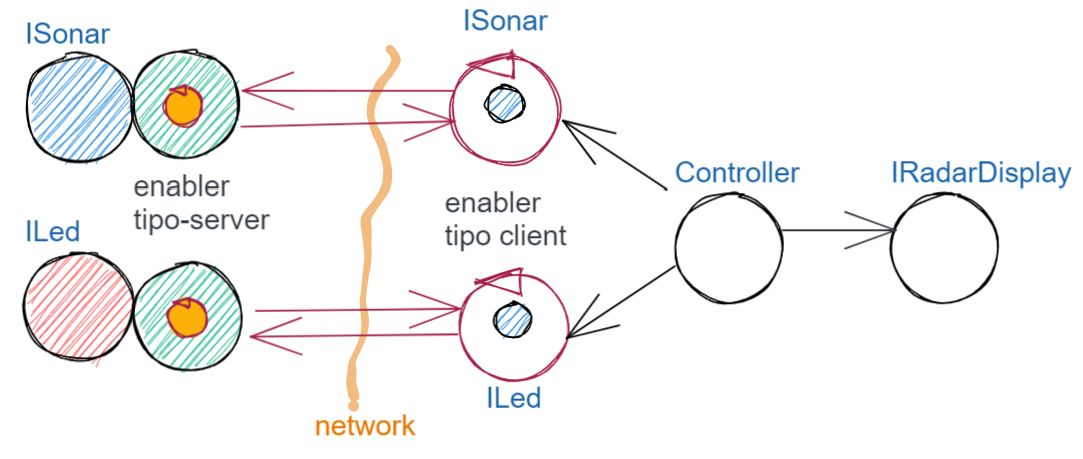
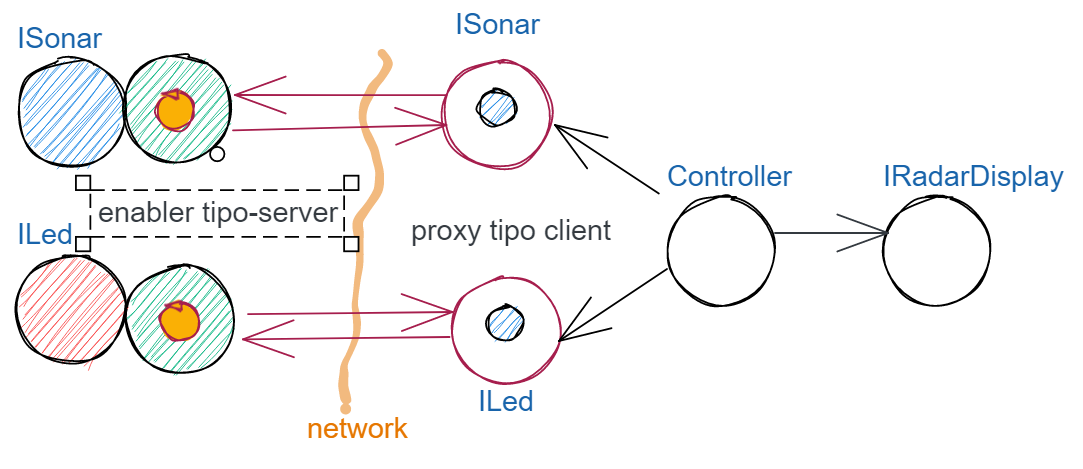
blocking queue

diff --git a/it.unibo.enablerCleanArch/src/it/unibo/enablerCleanArch/domain/SonarModel.java b/it.unibo.enablerCleanArch/src/it/unibo/enablerCleanArch/domain/SonarModel.java
@@ -1,14 +1,18 @@
 package it.unibo.enablerCleanArch.domain;
  
- 
+import java.util.concurrent.BlockingQueue;
+import java.util.concurrent.LinkedBlockingDeque;
 import it.unibo.enablerCleanArch.main.RadarSystemConfig;
 import it.unibo.enablerCleanArch.supports.Colors;
 
 public abstract class SonarModel  implements ISonar{ //extends Observable
-	protected  IDistance curVal ;
+public final static int queueSize = 10;
+//	protected  IDistance curVal ;
 	
 	protected boolean stopped  = false;
-	private boolean produced   = false;
+//	private boolean produced   = false;
+	
+	private BlockingQueue<IDistance> blockingQueue = new LinkedBlockingDeque<IDistance>(queueSize);
 	
 	public static ISonar create() {
 		if( RadarSystemConfig.simulation )  return createSonarMock();
@@ -28,7 +32,8 @@ public abstract class SonarModel  implements ISonar{ //extends Observable
 		sonarSetUp();
 	}
 	protected abstract void sonarSetUp() ;
-	protected abstract void sonarProduce() ;
+	//protected abstract void sonarProduce() ;
+	protected abstract void sonarProduce(BlockingQueue<IDistance> queue) ;
 
 	@Override
 	public boolean isActive() {
@@ -38,8 +43,15 @@ public abstract class SonarModel  implements ISonar{ //extends Observable
 	@Override
 	public IDistance getDistance() {
 		//Colors.out("SonarModel | getDistance curVal="+curVal, Colors.ANSI_PURPLE);
-		waitForUpdatedVal();
-		return curVal;
+		//waitForUpdatedVal();		
+		IDistance curVal;
+		try {
+			curVal = blockingQueue.take();
+			return curVal;
+		} catch (InterruptedException e) {
+			Colors.outerr("SonarMock | ERROR:"+e.getMessage());
+			return null;
+		}	
 	}
 	
 	@Override
@@ -49,7 +61,7 @@ public abstract class SonarModel  implements ISonar{ //extends Observable
 		new Thread() {
 			public void run() {
 				while( ! stopped  ) {
-					sonarProduce();
+					sonarProduce( blockingQueue );
 				}
 				Colors.out("SonarModel | ENDS", Colors.GREEN);
 		    }
@@ -62,6 +74,7 @@ public abstract class SonarModel  implements ISonar{ //extends Observable
 		stopped = true;
 	}
 
+	/*
 	protected synchronized void valueUpdated( ){
 		produced = true;
 		this.notify();
@@ -74,5 +87,5 @@ public abstract class SonarModel  implements ISonar{ //extends Observable
  		} catch (InterruptedException e) {
  			System.out.println("Sonar | waitForUpdatedVal ERROR " + e.getMessage() );
 		}		
-	}
+	}*/
 }

diff --git a/it.unibo.enablerCleanArch/src/it/unibo/enablerCleanArch/domain/SonarMock.java b/it.unibo.enablerCleanArch/src/it/unibo/enablerCleanArch/domain/SonarMock.java
@@ -1,18 +1,38 @@
 package it.unibo.enablerCleanArch.domain;
 
+import java.util.concurrent.BlockingQueue;
+
 import it.unibo.enablerCleanArch.main.RadarSystemConfig;
 import it.unibo.enablerCleanArch.supports.Colors;
 import it.unibo.enablerCleanArch.supports.Utils;
 
 public class SonarMock extends SonarModel implements ISonar{
-  
+protected  IDistance curVal ;  
 	@Override
 	protected void sonarSetUp() {
 		curVal = new Distance(90);		
 		Colors.out("SonarMock | sonarSetUp curVal="+curVal);
 	}
-	
+
 	@Override
+	protected void sonarProduce(BlockingQueue<IDistance> queue) {
+		try {
+		    if( RadarSystemConfig.testing ) {
+			      queue.put( new Distance( RadarSystemConfig.testingDistance ) );
+			      stopped = true;  //one shot
+			}else {
+				curVal = new Distance(  curVal.getVal() - 1 );
+			    queue.put( curVal );
+			    if( queue.size() > (SonarModel.queueSize * 8 / 10) ) Colors.out("SonarMock | queue size="+queue.size());
+	 		    stopped = ( curVal.getVal() == 0 );
+	 			Utils.delay(RadarSystemConfig.sonarDelay);  //avoid fast generation
+			}
+		}catch(Exception e) {
+			Colors.outerr("SonarMock | ERROR:"+e.getMessage());
+		}
+ 	}
+ 
+/*	@Override
 	  protected void sonarProduce() {
 	    if( RadarSystemConfig.testing ) {
 	      curVal.setVal( RadarSystemConfig.testingDistance );
@@ -24,5 +44,5 @@ public class SonarMock extends SonarModel implements ISonar{
 	  valueUpdated(   );
 	  Utils.delay(RadarSystemConfig.sonarDelay);  //avoid fast generation
 	}
- 
+ */
 }

diff --git a/it.unibo.enablerCleanArch/src/it/unibo/enablerCleanArch/domain/SonarConcrete.java b/it.unibo.enablerCleanArch/src/it/unibo/enablerCleanArch/domain/SonarConcrete.java
@@ -1,6 +1,7 @@
 package it.unibo.enablerCleanArch.domain;
 import java.io.BufferedReader;
 import java.io.InputStreamReader;
+import java.util.concurrent.BlockingQueue;
 
 import it.unibo.enablerCleanArch.supports.Colors;
 
@@ -25,6 +26,22 @@ public class SonarConcrete extends SonarModel implements ISonar{
  		return curVal ;
 	}
 	
+	@Override
+	protected void sonarProduce(BlockingQueue<IDistance> queue) {
+        try {
+			String data = reader.readLine();
+			dataCounter++;
+			if( dataCounter % numData == 0 ) { //every numData ...
+				//curVal.setVal( Integer.parseInt(data) );
+				Colors.out("SonarConcrete | data=" + data );
+				queue.add( new Distance(data) );
+			 }
+       }catch( Exception e) {
+       	Colors.outerr("SonarConcrete | ERROR " + e.getMessage() );
+       }
+		
+	}
+/*	
 	protected void sonarProduce() {
          try {
  			String data = reader.readLine();
@@ -37,6 +54,6 @@ public class SonarConcrete extends SonarModel implements ISonar{
         }catch( Exception e) {
         	Colors.outerr("SonarConcrete | ERROR " + e.getMessage() );
         }
- 	}
+ 	}*/
 
  }

diff --git a/it.unibo.enablerCleanArch/test/it/unibo/enablerCleanArch/TestSonarMock.java b/it.unibo.enablerCleanArch/test/it/unibo/enablerCleanArch/TestSonarMock.java
@@ -19,6 +19,7 @@ public class TestSonarMock {
 	@Test 
 	public void testSonarMock() {
 		RadarSystemConfig.simulation = true;
+		RadarSystemConfig.testing    = false;
 		RadarSystemConfig.sonarDelay = 10;		//quite fast generation ...
 		int delta = 1;
 				
@@ -27,9 +28,10 @@ public class TestSonarMock {
 		
 		int v0 = sonar.getDistance().getVal();
  		System.out.println("sonar initial value=" + v0);
+ 		
 		while( sonar.isActive() ) {
 			int d = sonar.getDistance().getVal();
-	 		//System.out.println("sonar getVal=" + d);
+	 		System.out.println("sonar getVal=" + d);
 			int vexpectedMin = v0-delta;
 			int vexpectedMax = v0+delta;
 			assertTrue(  d <= vexpectedMax && d >= vexpectedMin );

diff --git a/it.unibo.enablerCleanArch/src/it/unibo/enablerCleanArch/supports/Interaction2021.java b/it.unibo.enablerCleanArch/src/it/unibo/enablerCleanArch/supports/Interaction2021.java
@@ -3,6 +3,7 @@ package it.unibo.enablerCleanArch.supports;
 public interface Interaction2021  {	 
 	public void forward(  String msg ) throws Exception;
 	public String request(  String msg ) throws Exception;
+	public void reply(  String reqid ) throws Exception;
  	public String receiveMsg(  ) throws Exception ;
 	public void close( )  throws Exception;
 }

diff --git a/it.unibo.enablerCleanArch/src/it/unibo/enablerCleanArch/enablers/EnablerAsClient.java b/it.unibo.enablerCleanArch/src/it/unibo/enablerCleanArch/enablers/EnablerAsClient.java
@@ -2,7 +2,6 @@ package it.unibo.enablerCleanArch.enablers;
 import it.unibo.enablerCleanArch.supports.Colors;
 import it.unibo.enablerCleanArch.supports.Interaction2021;
 import it.unibo.enablerCleanArch.supports.TcpClient;
-import it.unibo.enablerCleanArch.supports.coap.CoapApplServer;
 import it.unibo.enablerCleanArch.supports.coap.CoapSupport;
 
 

diff --git a/it.unibo.enablerCleanArch/src/it/unibo/enablerCleanArch/domain/Distance.java b/it.unibo.enablerCleanArch/src/it/unibo/enablerCleanArch/domain/Distance.java
@@ -3,6 +3,7 @@ package it.unibo.enablerCleanArch.domain;
 public class Distance implements IDistance{
  private int v;
 	    public Distance(int d) { v=d;	}
+	    public Distance(String d) { v=Integer.parseInt(d);	}
 	    @Override
 	    public void setVal(int d) {	v = d;	}
 	    @Override

diff --git a/it.unibo.issLabStart/userDocs/iss22/source/RadarSystemComponenti.rst b/it.unibo.issLabStart/userDocs/iss22/source/RadarSystemComponenti.rst
@@ -198,12 +198,12 @@ Il Sonar
 Un Sonar è un dispositivo di input che deve fornire dati quando richiesto dalla applicazione.
 
 Il software fornito dal committente per l'uso di un Sonar reale ``HC-SR04`` introduce
-logicamente un componente attivo, che produce in modo autonomo sul dispositivo standard di output,
-con una certa frequenza, una sequenza di valori interi di distanza.
+logicamente un componente attivo, che produce sul dispositivo standard di output,
+con una certa frequenza, una sequenza di valori (interi) di distanza.
 
 La modellazione di un componente produttore di dati è più complicata di quella di un dispositivo di output
 in quanto occorre affrontare un classico problema produttore-consumatore.
-Al momento seguiremo un approccio tipico della programmazione concorrente, basato su memoria comune
+Al momento seguiremo un approccio tipico della programmazione concorrente, basato su memoria comune.
 
 
 &&&&&&&&&&&&&&&&&&&&&&&&&&&&&&&&&&&&&&&&&&&&&&&&&
@@ -404,10 +404,10 @@ Il testing di un sonar riguarda due aspetti distinti:
 Ovviamente qui ci dobbiamo occupare della seconda parte, supponendo che la prima sia soddisfatta. A tal fine
 possiamo procedere come segue:
 
-- per il *LedMock*, noi controlliamo la sequenza di valori emeessi e quindi possiamo
-  verificare che  un consumatore riceva dal metodo ``getVal`` i valori nella giusta sequenza;
+- per il *LedMock*, poichè siamo noi a generare la sequenza di valori, possiamo
+  verificare che  un consumatore riceva dal metodo ``getDistance`` i valori nella giusta sequenza;
 - per il *LedConcrete*, poniamo uno schermo a distanza prefissata :math:`D`  e verifichiamo che
-  un consumatore riceva dal  metodo ``getVal`` valori :math:`D \pm \epsilon`.
+  un consumatore riceva dal  metodo ``getDistance`` valori :math:`D \pm \epsilon`.
 
 Una TestUnit automatizzata per il ``SonarMock`` può essere quindi definita in JUnit come segue:
 
@@ -435,9 +435,9 @@ Una TestUnit per il ``SonarConcrete`` è simile, una volta fissato il valore :ma
 di varianza sulla distanza-base.
 
 
-%%%%%%%%%%%%%%%%%%%%%%%%%%%%%%%%%%%%%%%%%%%%%%%%%
+&&&&&&&&&&&&&&&&&&&&&&&&&&&&&&&&&&&&&&&&&&&&&&&&&
 Il Sonar come dispositivo osservabile
-%%%%%%%%%%%%%%%%%%%%%%%%%%%%%%%%%%%%%%%%%%%%%%%%%
+&&&&&&&&&&&&&&&&&&&&&&&&&&&&&&&&&&&&&&&&&&&&&&&&&
 
 Volendo impostare il Sonar come un dispositivo osservabile, 
 introduciamo un nuovo contratto, che esetende il precedente:
@@ -460,7 +460,7 @@ di distanza, il metodo ``update`` di tutti gli osservatori registrati.
 Per aggiungere al Sonar le funzionalità di osservabilità,  possiamo avvalerci del pattern decorator_
 trasformando oggetti di tipo ``SonarState`` in oggetti osservabili:
 
-.. _decorator: https://it.wikipedia.org/wiki/Decorator
+
 
 .. code:: java
 
@@ -503,9 +503,9 @@ e che implementa i metodi di registrazione ridiregendoli allo stato osservabile.
     }
   }
 
-%%%%%%%%%%%%%%%%%%%%%%%%%%%%%%%%%%%%%%%%%%%%%%%%
+&&&&&&&&&&&&&&&&&&&&&&&&&&&&&&&&&&&&&&&&&&&&&&&&&
 Testing del sonar osservabile
-%%%%%%%%%%%%%%%%%%%%%%%%%%%%%%%%%%%%%%%%%%%%%%%%
+&&&&&&&&&&&&&&&&&&&&&&&&&&&&&&&&&&&&&&&&&&&&&&&&&
 
 Il testing sul ``SonarObservableMock`` viene qui impostato nel modo che segue:
 

diff --git a/it.unibo.issLabStart/userDocs/iss22/source/RadarSystemProdottiAnalisi.rst b/it.unibo.issLabStart/userDocs/iss22/source/RadarSystemProdottiAnalisi.rst
@@ -181,14 +181,14 @@ Come analisti del problema possiamo però evidenziare quanto segue:
 
 #. l'uso della memoria comune come strumento di comunicazione va evitato, per  
    ottenere la flessibità di poter eseguire ciascun componente su un diverso nodo di elaborazione; 
-#. il ``Controller`` può acquisire i dati in due modi diversi:
+#. il ``Controller`` può acquisire i dati del Sonar in  modi diversi:
 
-  #. inviando una richieste al Sonar, che gli fornisce un dato come risposta
-  #. il Sonar non lavora come 'produttore a richiesta' ma pubblica dati su un broker 
-     accessibile al ``Controller``.
+  #. inviando una richieste al Sonar, che gli fornisce un dato come risposta;
+  #. agendo come un componente *observer* di un Sonar *observable*;
+  #. agendo com un *subscriber* su una *topic* di un broker su cui il Sonar pubblica i suoi dati.
 
-Poichè abbiamo in precedenza escluso forme di interazione *publish-subscribe*, abbiamo al momento
-ipotizzato il caso 2.1. 
+Poichè abbiamo in precedenza escluso forme di interazione *publish-subscribe*, ci concentrimao al momento
+sui caso 2.1 e 2.2. 
 
 Questo modello sembra portare intrinsecamente in sè l'idea di una classica applicazione   
 ad oggetti che deve essere eseguita su un singolo elaboratore (o una singola Java virtual machine).
@@ -246,9 +246,10 @@ con interfaccia ``ILed`` che trasmetterà i comandi a un *enabler tipo-server* d
    :width: 50%
 
 
-Tuttavia, per limitare il traffico di rete, è inutile inviare i dati del sonar anche quando non
-sono richiesti dal sever, per cui, come analisti, riteniamo opportuno che sul PC vengano definiti, ad uso
-del  ``Controller``, due *proxy*, uno per il Led e uno per il Sonar, che interagiranno cone due
+Tuttavia, come analisti, riteniamo opportuno  limitare il traffico di rete, 
+evitando di inviare i dati del sonar anche quando non
+sono richiesti dal sever.  Per cui, una architettura migliore è porre sul PC, ad uso
+del ``Controller``, due  *proxy tipo-client*, uno per il Led e uno per il Sonar, che interagiranno cone due
 *enabler tipo-server* complementari posti sul RaspberryPi, inviando:
 
 - messaggi interpretabili come :blue:`comandi` (ad esempio ``activate``, ``turnOff``)
@@ -276,14 +277,8 @@ seguito da un opportuno 'assemblaggio' degli stessi in modo da formare il sistem
 
 Poichè il nostro obiettivo è anche quello di riusare :blue:`core-code` fornito dal committente, possiamo pensare di procedere come segue:
 
-<<<<<<< HEAD
 #. definizione dei componenti software di base legati ai dispositivi di I/O (Sonar, RadarDisplay e Led);
 #. definizione di alcuni supporti TCP per componenti lato client e lato server, con l'obiettivo di
-=======
-#. definizione dei oggetti software di base (:blue:`core-code`) legati ai dispositivi di I/O 
-  (Sonar, RadarDisplay e Led);
-#. definizione di alcuni supporti TCP per componenti lato client a lato server, con l'obiettivo di
->>>>>>> ec913d676d3c6be52d27167764322c465fae8efe
    formare un insieme riusabile anche in applicazioni future; 
 #. definizione di componenti  :blue:`enabler`  capaci di abilitare  
    alle comunicazioni (via TCP o mediante altri tipi di protocollo) i componenti-base;

diff --git a/it.unibo.issLabStart/userDocs/iss22/source/RadarSystem.rst b/it.unibo.issLabStart/userDocs/iss22/source/RadarSystem.rst
@@ -253,7 +253,7 @@ Il pattern observer
 
 Nella programmazione ad oggetti, un componente  :blue:`osservabile` invoca un metodo di
 invio di dati (quando disponibili) a tutti i componenti che sono stati in precedenza registrati 
-presso di lui  come *osservatori*. Un componente può essere registarto come osservatore solo
+presso di lui  come *osservatori*. Un componente può essere registrato come osservatore solo
 se implementa il metodo di invio dati (di solito denominato ``update``).
 
 La registrazione di un *observer* presso un *observable*
@@ -324,7 +324,7 @@ Ma ecco sorgere un'altra problematica legata alla distribuzione:
   Tuttavia, un colloquio con il committente ha escluso (per motivi di costo) la possibilità di introdurre un altro
   nodo di elaborazione. 
 
-- La presenza di un broker in forme di comunicazione mediata  potrebbe indurci ad attribuire responsabiliotà
+- La presenza di un broker in forme di comunicazione mediata  potrebbe indurci ad attribuire responsabilità
   applicative al mediatore. Ma è giusto/opportuno procedere i questo modo?
 
 Dunque si tratta di analizzare dove sia meglio allocare il ``Controller`` :
@@ -424,6 +424,7 @@ nella seguente interfaccia:
 
   interface Interaction2021  {	 
     public void forward(  String msg ) throws Exception;
+    public String request(  String msg ) throws Exception;
     public String receiveMsg(  )  throws Exception;
     public void close( )  throws Exception;
   }
